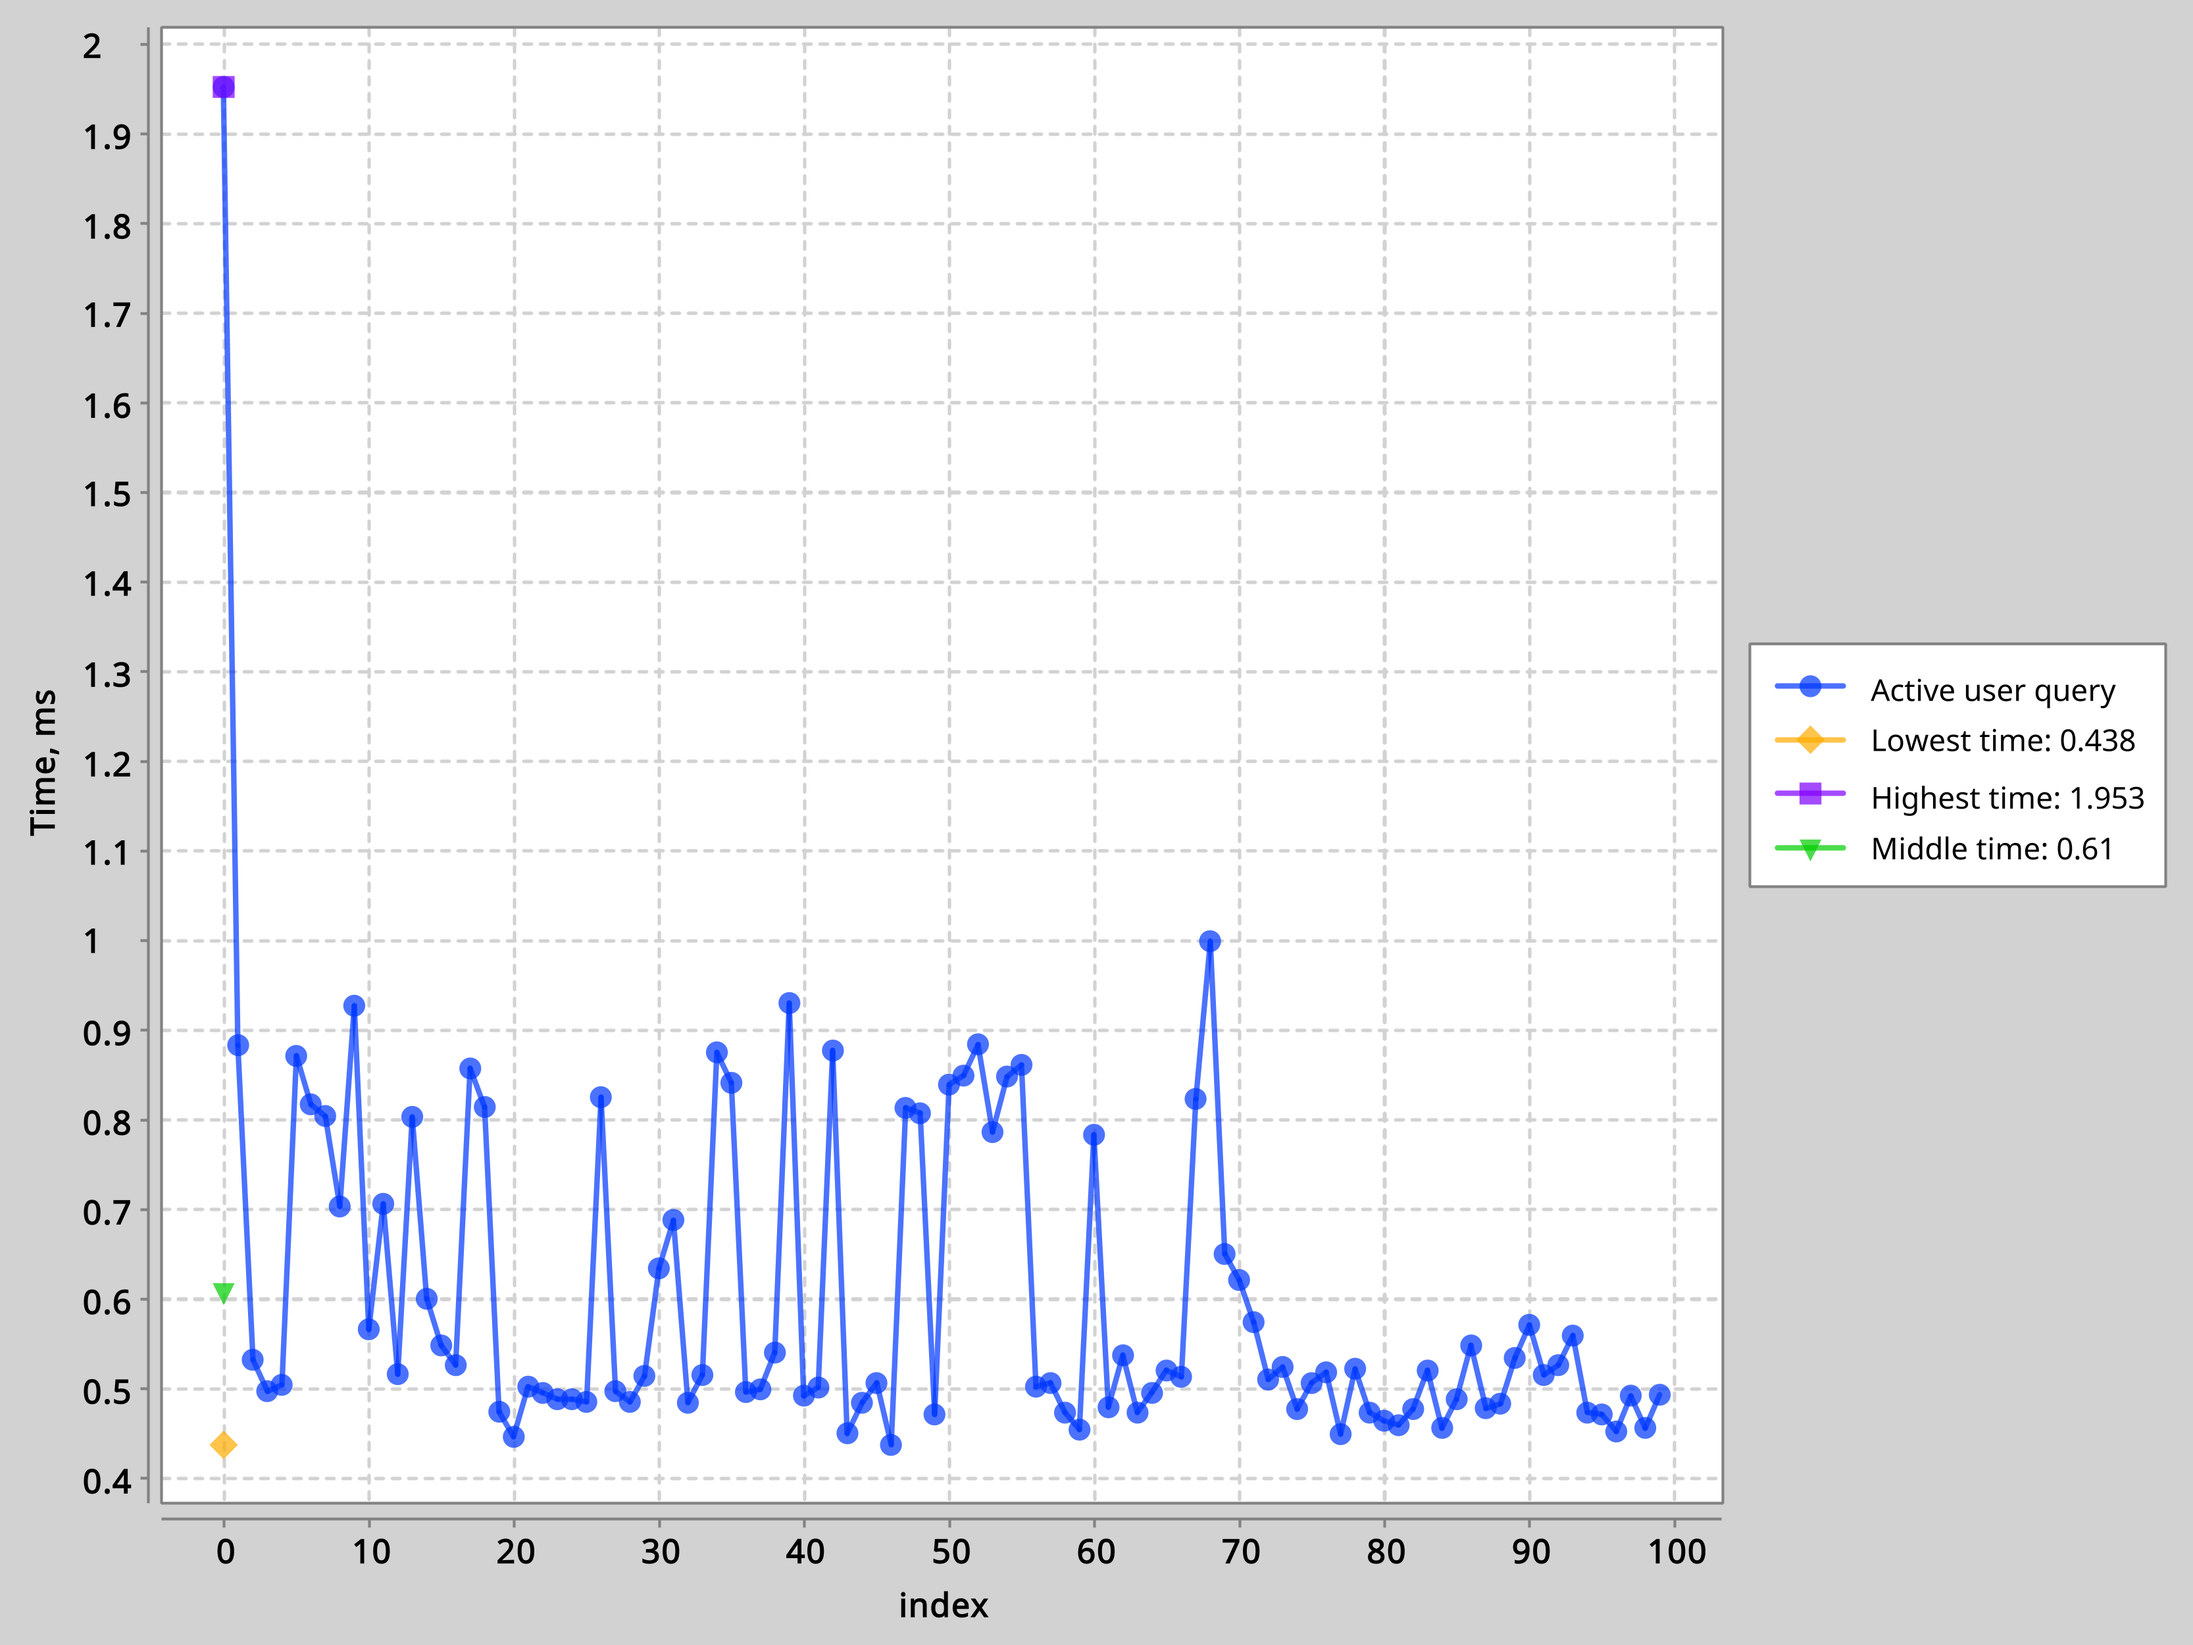
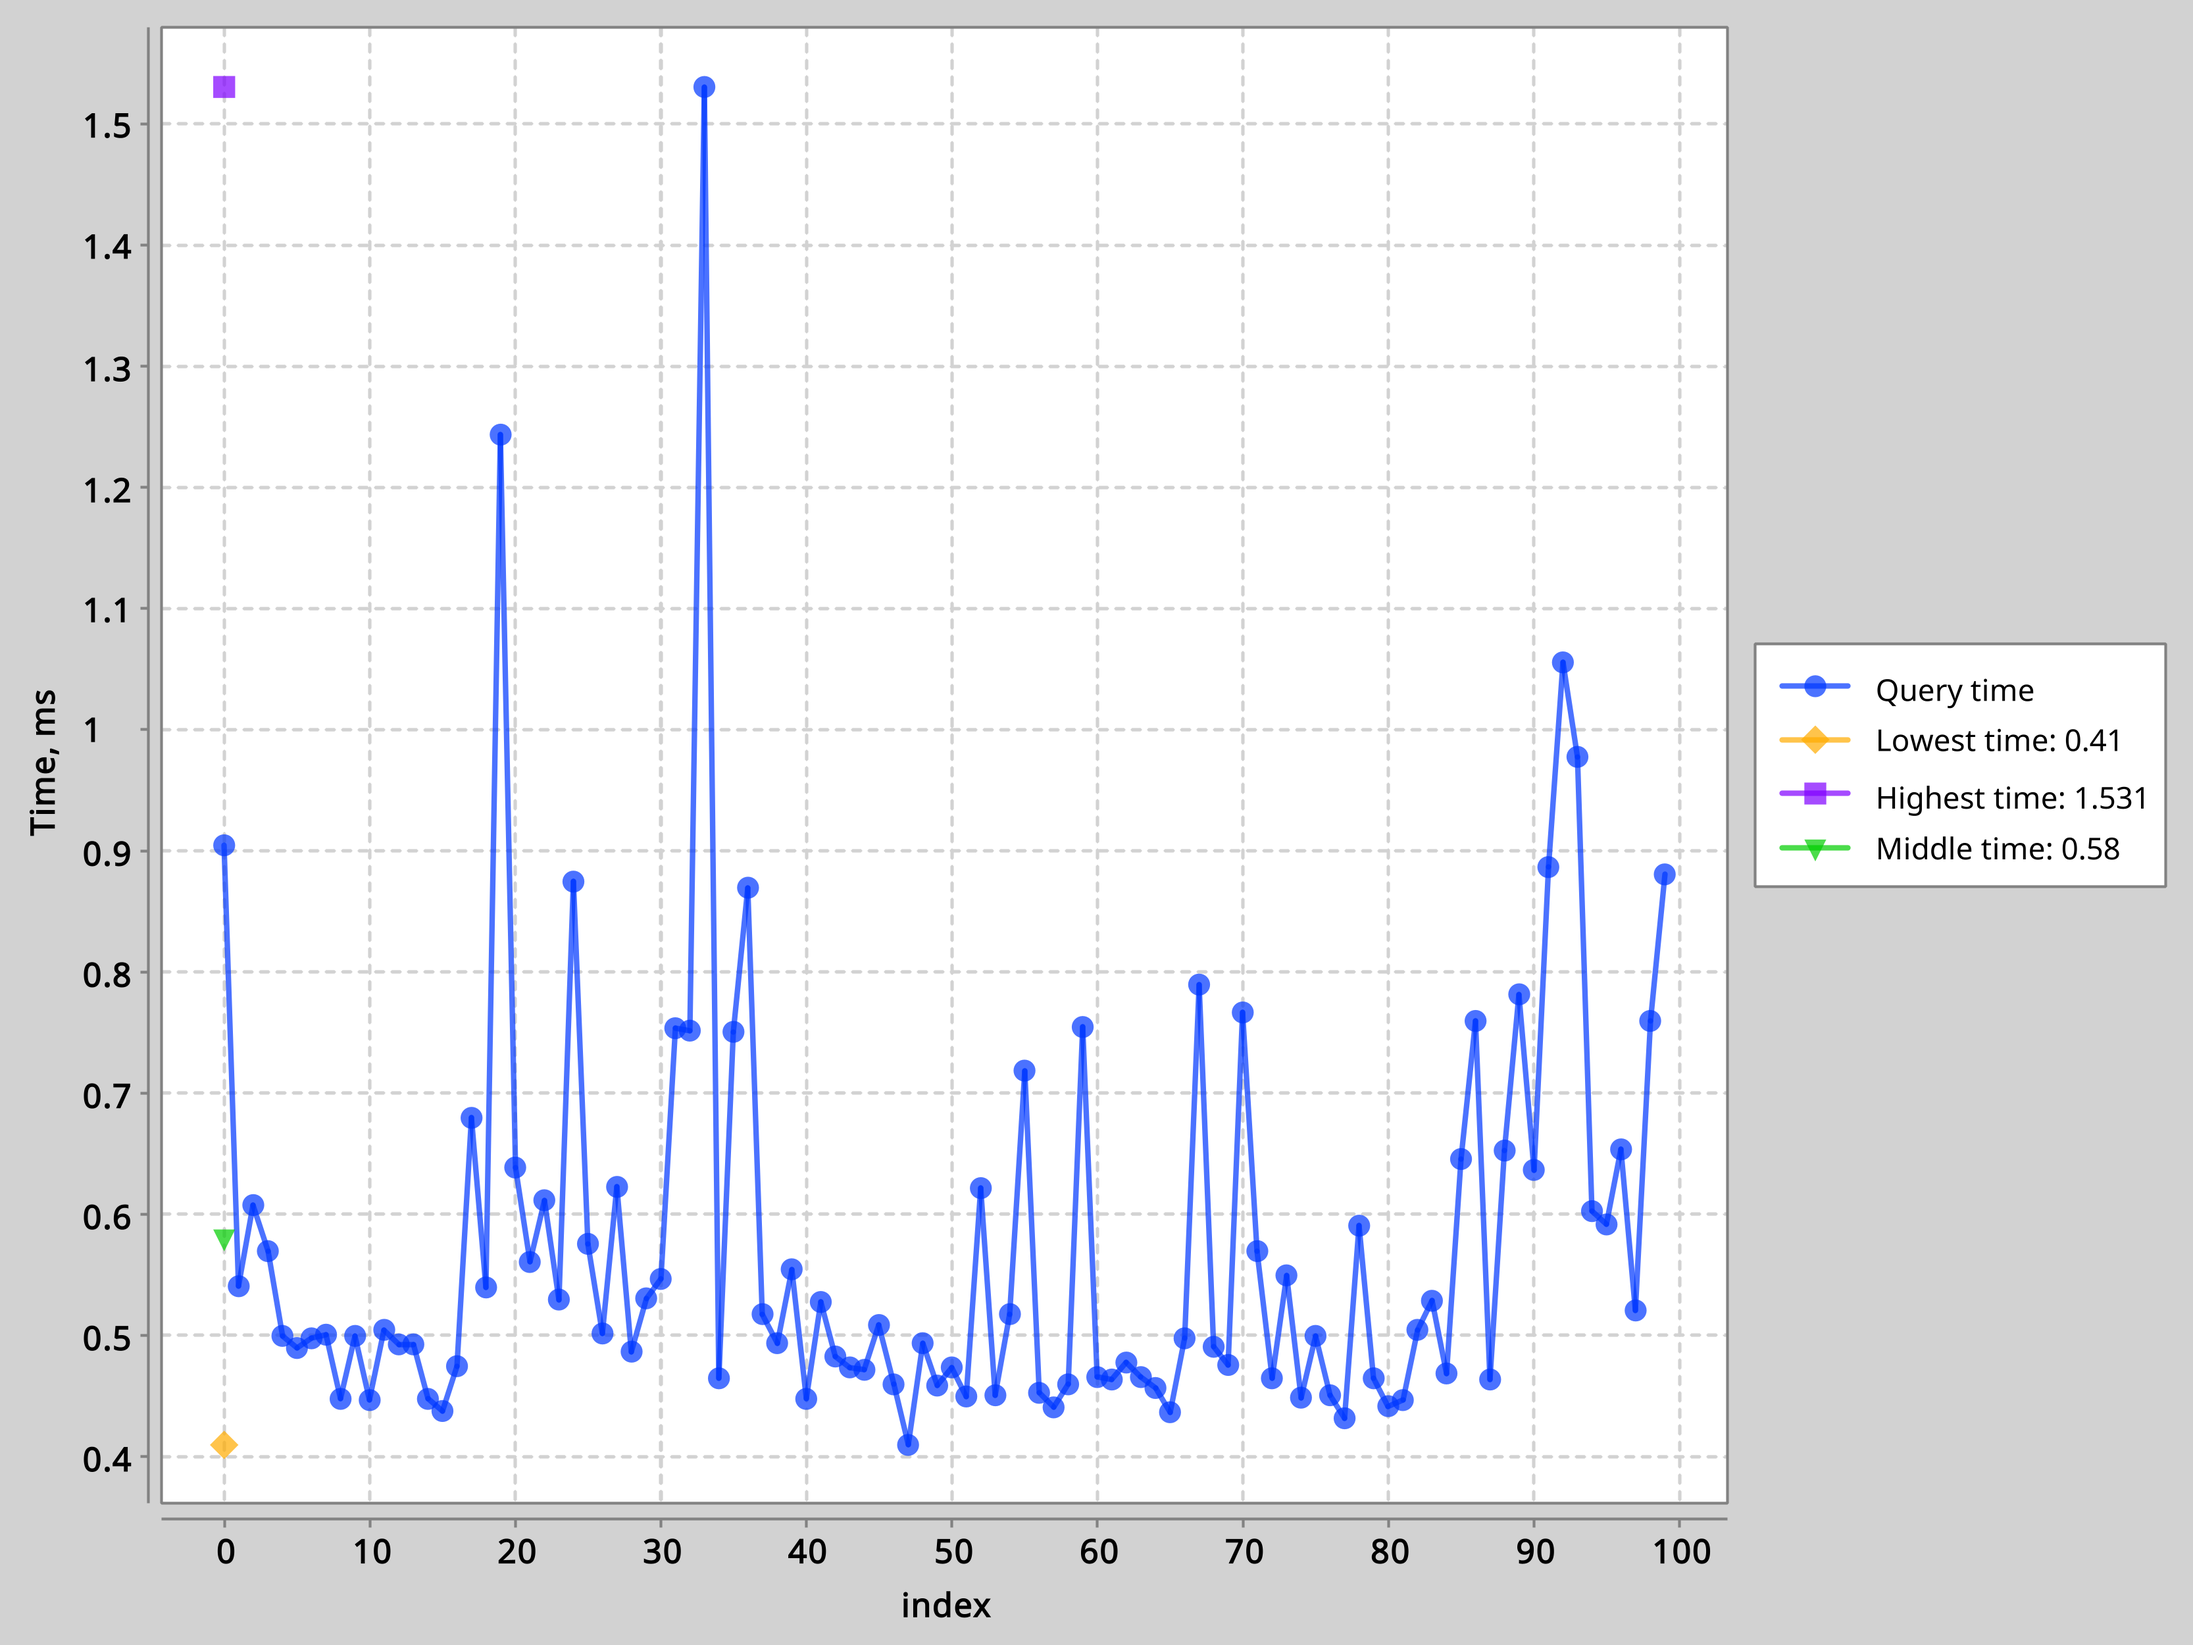
new statics added

diff --git a/whooshService/src/main/java/ru/medoedoed/charts/ChartMaker.java b/whooshService/src/main/java/ru/medoedoed/charts/ChartMaker.java
@@ -25,7 +25,7 @@ public class ChartMaker {
 
     XYChart chart = new XYChartBuilder().width(800).height(600).xAxisTitle("index").yAxisTitle("Time, ms").build();
 
-    chart.addSeries("Active user query", index, times);
+    chart.addSeries("Query time", index, times);
 
     chart.addSeries("Lowest time: " + min, Collections.singletonList(0), Collections.singletonList(min));
     chart.addSeries("Highest time: " + max, Collections.singletonList(0), Collections.singletonList(max));

diff --git a/README.md b/README.md
@@ -31,28 +31,31 @@
 
 
 ## Показатели производительности без индексации и с индексацией:
-
-1. Отобразить все заказы конкретного пользователя, где пользователь - параметр.
+    1. Отобразить все заказы конкретного пользователя, где пользователь - параметр.
 <div style="display: flex;"> 
     <img src="charts/1task.png" style="width: 48%; margin-right: 2%;" alt=""> 
     <img src="charts/1task1.png" style="width: 48%; margin-left: 2%;" alt=""> 
 </div>
-2. Показать количество активных пользователей за месяц в течение последних 5 лет.
+
+    2. Показать количество активных пользователей за месяц в течение последних 5 лет.
 <div style="display: flex;"> 
     <img src="charts/2task.png" style="width: 48%; margin-right: 2%;" alt=""> 
     <img src="charts/2task1.png" style="width: 48%; margin-left: 2%;" alt=""> 
 </div>
-3. Показать все сообщения из определенного респонса и отсортировать их по времени.
+
+    3. Показать все сообщения из определенного респонса и отсортировать их по времени.
 <div style="display: flex;"> 
     <img src="charts/3task.png" style="width: 48%; margin-right: 2%;" alt=""> 
     <img src="charts/3task1.png" style="width: 48%; margin-left: 2%;" alt="">
 </div>
-4. Вывести все самокаты в определенной области.
+
+    4. Вывести все самокаты в определенной области.
 <div style="display: flex;"> 
     <img src="charts/4task.png" style="width: 48%; margin-right: 2%;" alt=""> 
     <img src="charts/4task1.png" style="width: 48%; margin-left: 2%;" alt=""> 
 </div>
-5. Показать топ 100 пользователей, потративших наибольшее количество денег.
+
+    5. Показать топ 100 пользователей, потративших наибольшее количество денег.
 <div style="display: flex;"> 
     <img src="charts/5task.png" style="width: 48%; margin-right: 2%;" alt=""> 
     <img src="charts/5task1.png" style="width: 48%; margin-left: 2%;" alt=""> 
